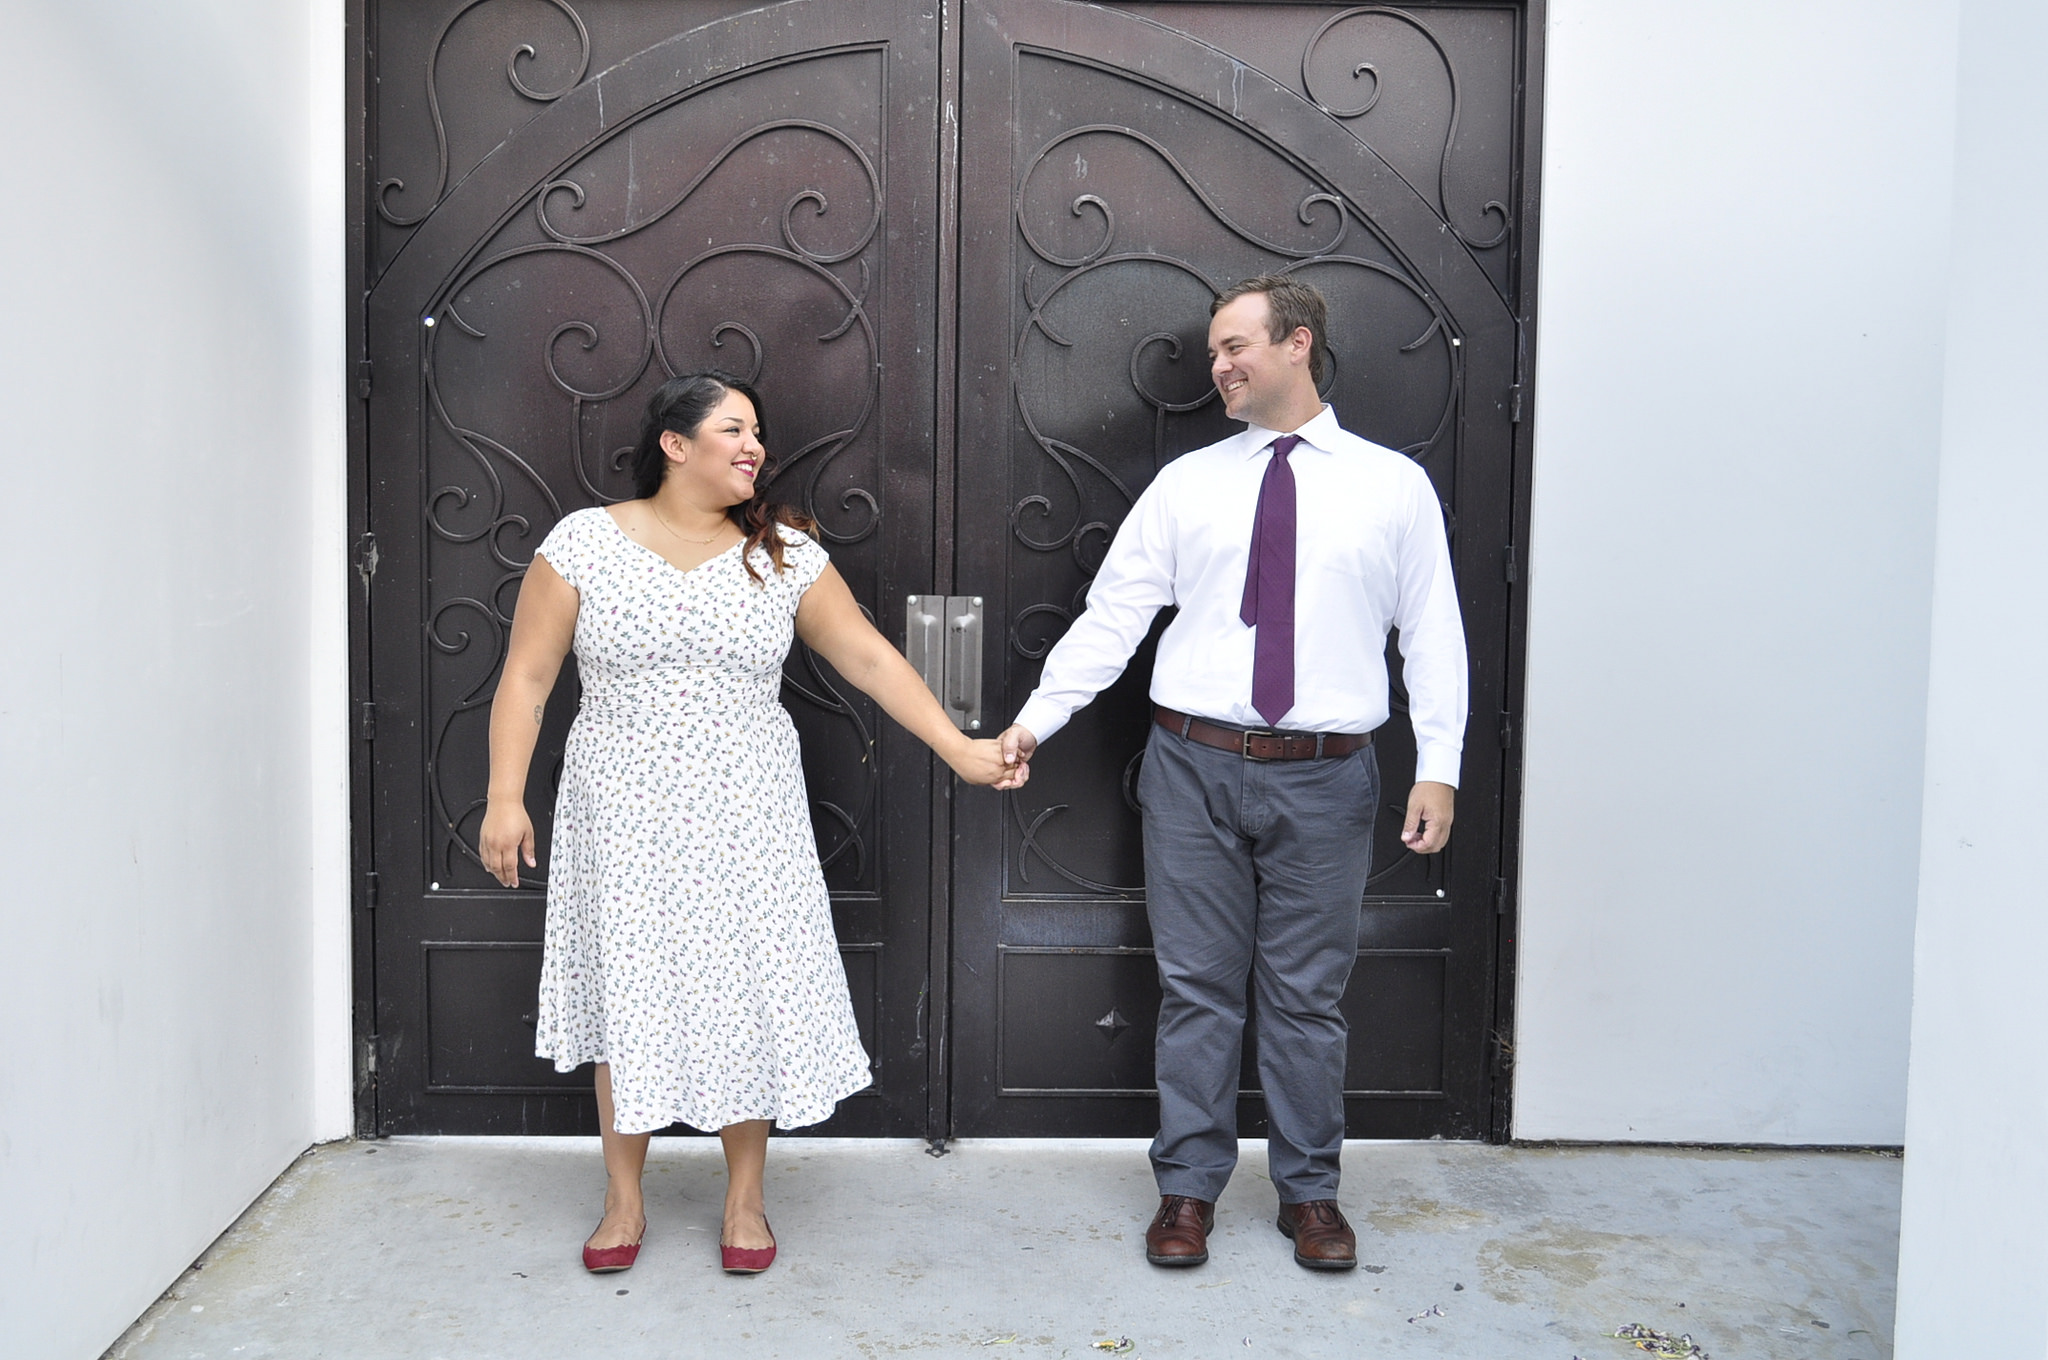
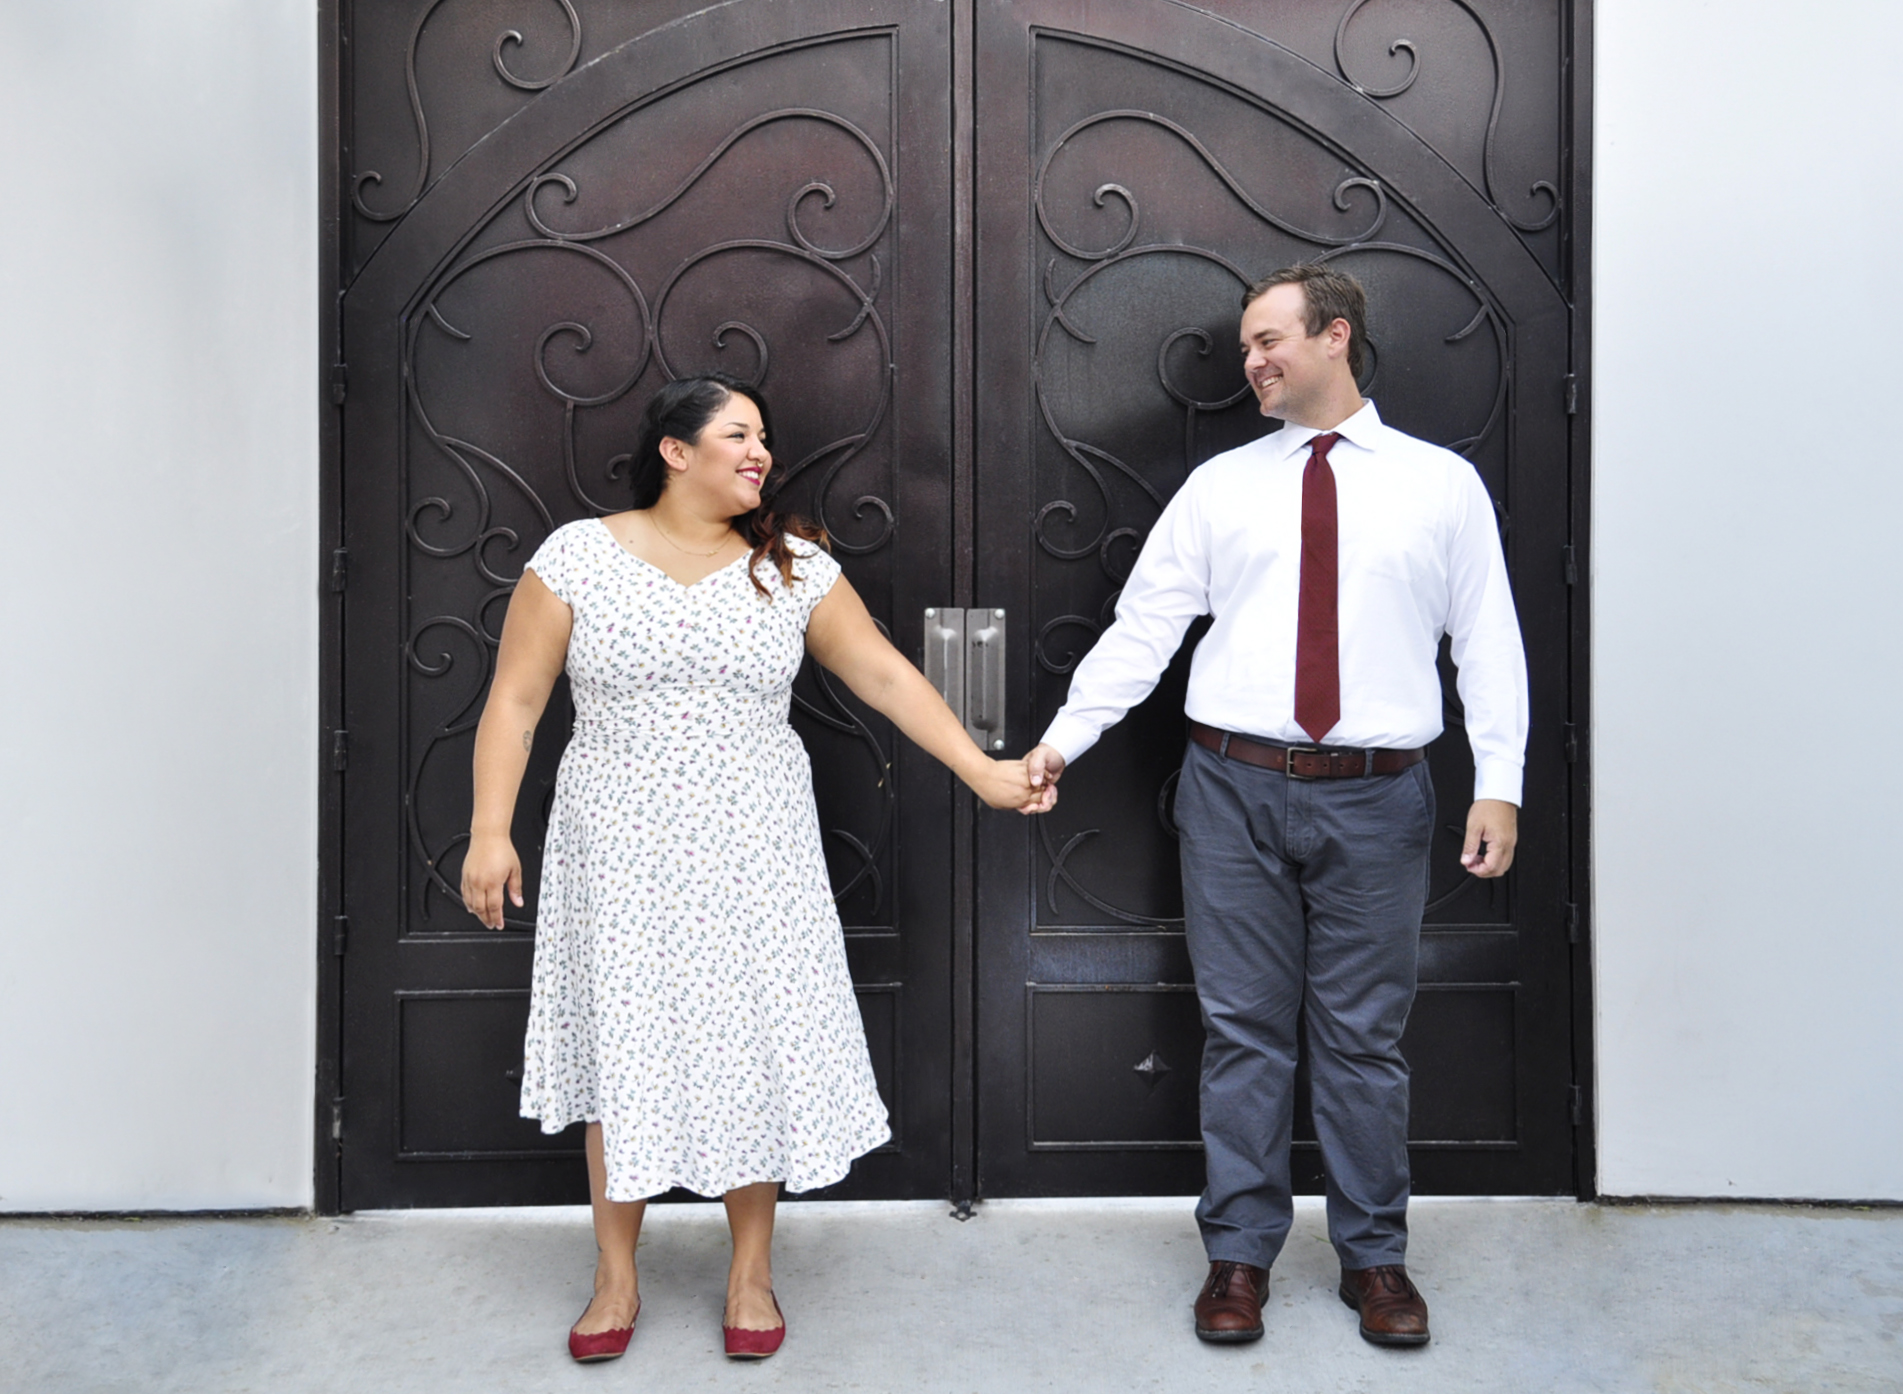
added more info

diff --git a/index.html b/index.html
@@ -1,7 +1,7 @@
 <!doctype html>
 <html>
+<!-- Ryan hearts Amanda -->
 <head>
-  <!-- Ryan loves Amanda -->
   <title>Mandy + Ryan</title>
   <link href="https://fonts.googleapis.com/css?family=EB+Garamond|Raleway:400,700" rel="stylesheet">
   <link href="./assets/main.css" rel="stylesheet" />
@@ -26,7 +26,7 @@
   </nav>
   -->
 
-  <img class="hero" src="./assets/hands-big-door.jpg" width="2048px" alt="Amanda & Ryan" />
+  <img class="hero" src="./assets/hands-big-door.jpg" width="1903px" alt="Amanda & Ryan" />
 
   <section id="please-join">
     <h1>Please join us for our wedding</h1>
@@ -37,7 +37,7 @@
   <section id="ceremony">
     <h1>Ceremony</h1>
     <p class="detail">Starts at 4:30pm</p>
-    <h2>Spring Mountains Visitor Gateway</h2>
+    <h2><span>Spring Mountains</span> <span>Visitor Gateway</span></h2>
     <p class="detail">2525 Kyle Canyon Rd</p>
     <p class="detail">Mt Charleston, NV 89124</p>
     <p class="detail"><a href="https://www.google.com/maps/place/Spring+Mountains+Visitor+Gateway/@36.2715427,-115.5898833,15z/">View on Google Maps</a></p>
@@ -55,6 +55,21 @@
   <section id="rsvp">
     <h1>RSVP</h1>
     <p>Please <a href="https://docs.google.com/forms/d/e/1FAIpQLSdj2z8Elz7aq3YyHYsfgmjF8O3TjcH5q7lrOh82ZHUePtfJ8w/viewform">RSVP here</a> to let us know whether you will join us, and who is coming with you.</p>
+  </section>
+
+  <section id="hashtag">
+    <h1>#RyanHeartsAmanda</h1>
+    <aside>Please tag photos and posts with our hashtag</aside>
+  </section>
+
+  <section id="etiquette">
+    <h1>Etiquette</h1>
+    <aside>You need to act right</aside>
+    <h2>Dress Code</h2>
+    <p class="detail">Amanda says the dress is <em>Cocktail Dress</em>, but I don't know what that is. Casual-Dressy is good. Even I'm not wearing a tux.
+    <p class="detail">Please shower, and don't wear jeans or shorts or anything that would embarrass your mama (or my mama).
+    <h2>Be Early</h2>
+    <p>Unless your name is Amanda, we will start without you. Please don't show up late to the ceremony.
   </section>
 
   <section id="your-trip">
@@ -75,7 +90,7 @@
     </ul>
 
     <h2>Getting Around</h2>
-    <p>Don't take cabs in Las Vegas. They scam people, they're rude, and they smell bad.</p>
+    <aside>Don't take cabs in Las Vegas. They scam people, they're rude, and they smell bad.</aside>
     <ul>
       <li>Get a <a href="https://www.uber.com/invite/ryana493">free ride with Uber, using this link</a> to sign up</li>
       <li>Get <a href="https://www.lyft.com/invite/RYAN286411">discounts from Lyft, using this link</a> for your first rides</li>
@@ -83,6 +98,22 @@
     </ul>
   </section>
 
-  <!-- Ryan loves Amanda -->
+  <section id="gift-registry">
+    <h1>Gift Registry</h1>
+    <aside>Gifts are not necessary, but if you insist...</aside>
+    <p>We created an <a href="https://smile.amazon.com/wedding/amanda-silguero-ryan-atkinson-las-vegas-october-2016/registry/2GFIINA6SZ2JL">Amazon.com Wedding Registry</a> that contains items from many stores, including gift cards and our favorite subscription services.</p>
+
+    <h2>Honeymoon Fund</h2>
+    <aside>We'd like to visit an island, far far away</aside>
+    <ul>
+      <li><a href="https://cash.me/$ryanheartsamanda">Square Cash</a>
+      <li><a href="https://venmo.com/ryanheartsamanda">Venmo</a>
+      <li><a href="https://www.paypal.me/ryanheartsamanda">Paypal</a>
+      <li><a href="https://www.zola.com/registry/ryanheartsamanda">Zola</a>
+    </ul>
+
+  </section>
+
 </body>
+<!-- Ryan hearts Amanda -->
 </html>

diff --git a/assets/main.css b/assets/main.css
@@ -35,16 +35,19 @@ header { padding-left:0; padding-right:0; }
 section {}
 
 h1, h2 { margin:32px 0 16px; }
+h2 span { white-space:nowrap;}
 img { display:block; width:100%; margin:16px 0; }
-p, li { margin:16px 0; text-align:center; }
-li { list-style:none; }
+ul { margin:16px 0; padding:0; }
+p, li, aside { margin:16px auto; width:70%; text-align:center; }
+li { display:block; list-style:none; }
+aside { font-style:italic;}
 
-p.detail { margin:8px 0; }
+p.detail { margin:8px auto; }
 
 /* section-specific overrides */
 #please-join { margin:48px auto; }
 #please-join h1, #please-join .detail {
-  margin:32px 0; font-size:80%; color:#999; font-weight: normal;
+  margin:32px auto; font-size:80%; color:#999; font-weight: normal;
 }
 #please-join p.names {
   padding:16px;
@@ -62,3 +65,11 @@ p.detail { margin:8px 0; }
   color:#999;
 }
 #please-join .and::before, #please-join .and::after { content:"\2014";}
+
+#gift-registry ul { text-align:center; }
+#gift-registry li {
+  display:inline;
+  padding:0 8px 0 12px;
+  border-right:2px solid #aaa;
+}
+#gift-registry li:last-of-type { border-right:none; }
